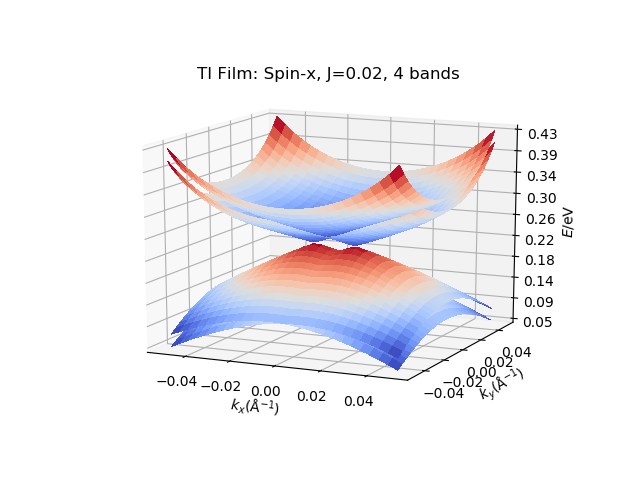
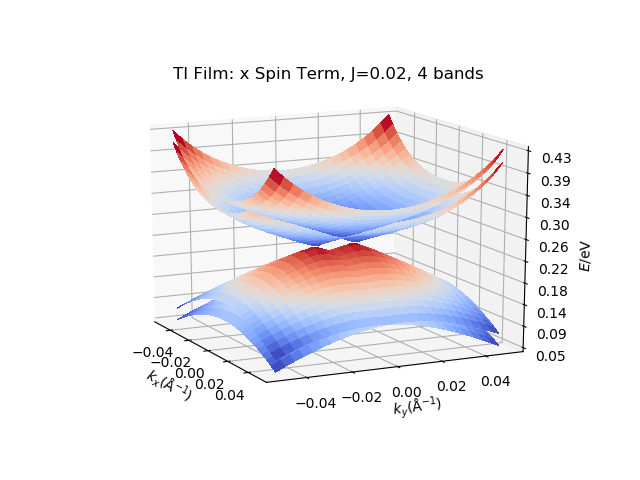
180727

Changed region(s): [[0.2188, 0.2188, 0.9375, 0.875], [0.2812, 0.125, 0.75, 0.1875]]

diff --git a/TI Hamiltonian/TopoInvCalc.py b/TI Hamiltonian/TopoInvCalc.py
@@ -11,12 +11,12 @@ pauli_y = np.array([[0, -1j], [1j, 0]], dtype=complex)
 pauli_z = np.array([[1, 0], [0, -1]], dtype=complex)
 pauli_vector = list([pauli_x, pauli_y, pauli_z])
 
-settings = {'num_lines': 31,
+settings = {'num_lines': 41,
             'pos_tol':  1e-2,
             'gap_tol': 0.2,
             'move_tol': 0.05,
-            'iterator': range(30, 201, 4),
-            'min_neighbour_dist': 6e-5,
+            'iterator': range(40, 201, 4),
+            'min_neighbour_dist': 5e-6,
             }
 
 
@@ -36,45 +36,83 @@ def Calc(ham, surf=lambda k1, k2: [k1-0.5, k2-0.5], CalcZ2=True):
 
     class Res(object):
         def __init__(self):
+            self.result = result
             self.Chern = z2pack.invariant.chern(result)
+            self.CalcZ2 = CalcZ2
             if CalcZ2 == True:
-                result_l = z2pack.surface.run(
+                self.result_l = z2pack.surface.run(
                     system=s0, surface=lambda k1, k2: surf(k1/2, k2), **settings)
-                result_r = z2pack.surface.run(
+                self.result_r = z2pack.surface.run(
                     system=s0, surface=lambda k1, k2: surf(k1/2+0.5, k2), **settings)
-                Z2_1, Z2_2, Z2_T = z2pack.invariant.z2(result_l), z2pack.invariant.z2(
-                    result_r), z2pack.invariant.z2(result)
+                Z2_1, Z2_2, Z2_T = z2pack.invariant.z2(self.result_l), z2pack.invariant.z2(
+                    self.result_r), z2pack.invariant.z2(self.result)
                 self.Z2 = True if (Z2_1*Z2_2*(1-Z2_T) == 1) else False
                 self._Z2 = [Z2_1, Z2_2, Z2_T]
 
-        def plotChern(self, title="", filename=""):
+        def plotChern(self, title="", filename="", start=0, end=1):
             fig, ax = plt.subplots()
-            z2pack.plot.wcc(result, axis=ax)
+            z2pack.plot.wcc(self.result, axis=ax)
             ax.set_xlabel(r"$k_x$")
             ax.set_ylabel(r"$\bar{x}$")
-            # ax.set_xlim(0.5, 1)
-            ax.set_title(title+"\nChern="+str(self.Chern))
+            ax.set_xlim(start, end)
+            ax.set_title("Chern="+str(self.Chern))
+            fig.suptitle(title)
             # # plt.savefig("Chern TI film z spin.png")
             # ax.set_title("TI film, d=6nm, j=0.02")
-            if filename!="":
-                path=os.path.join("Pictures",filename+".png")
+            if filename != "":
+                path = os.path.join("Pictures", filename+".png")
                 plt.savefig(path)
             else:
                 plt.show()
+
+        def plotZ2(self, title="", filename="", start=0, end=1, start_l=0, end_l=1, start_r=0, end_r=1):
+            if self.CalcZ2 != True:
+                raise Exception("Haven't Calculated Z2")
+            else:
+                fig, ax = plt.subplots(1, 3)
+                z2pack.plot.wcc(self.result_l, axis=ax[0])
+                z2pack.plot.wcc(self.result_r, axis=ax[1])
+                z2pack.plot.wcc(self.result, axis=ax[2])
+                for i in range(3):
+                    ax[i].set_xlabel(r"$k_x$")
+                    ax[i].set_ylabel(r"$\bar{x}$")
+                    ax[i].set_title("Z2="+str(self._Z2[i]))
+
+                ax[0].set_xlim(start_l, end_l)
+                ax[1].set_xlim(start_r, end_r)
+                ax[2].set_xlim(start, end)
+
+                fig.suptitle(title)
+                if filename != "":
+                    path = os.path.join("Pictures", filename+".png")
+                    plt.savefig(path)
+                else:
+                    plt.show()
+
     return(Res())
 
 
 if __name__ == "__main__":
     N, J = 20, 0.02
     S_ = np.zeros([N, 3])
-    for i in range(N):
+    # for i in range(N):
+    #     S_[i, 0] = 1
+    #     S_[i, 1] = np.pi/2
+    #     S_[i, 2] = 0
+    for i in range(20):
         S_[i, 0] = 1
-        S_[i, 1] = 0
-        S_[i, 2] = 0
+        S_[i, 1] = np.pi/2
+        S_[i, 2] = np.pi/2
+    # for i in range(10, N):
+    #     S_[i, 0] = 1
+    #     S_[i, 1] = np.pi/2
+    #     S_[i, 2] = np.pi*3/2
     S = np.array([([s[0]*np.sin(s[1])*np.cos(s[2]), s[0]*np.sin(s[1])
                     * np.sin(s[2]), s[0]*np.cos(s[1])])for s in S_])
+    print(S)
     h = Hamiltonian(N=N, J=J, S=S)
-
+    # e = Eig(h)
+    # plotBS(e, 2*N-2, 2*N+2, title="TI Film: x&-x, J=0.02, 4 bands")
     res = Calc(h, CalcZ2=False)
     print(res.Chern)
-    res.plotChern(title="Spin-z, J=0.02")
+    res.plotChern(title="Spin-y, J=0.02")

diff --git a/TI Hamiltonian/Ham_Spin.py b/TI Hamiltonian/Ham_Spin.py
@@ -27,8 +27,8 @@ J = 0.02  # an arbitary value for spin coupling energy
 S_ = np.zeros([N, 3])
 for i in range(N):
     S_[i, 0] = 1
-    S_[i, 1] = np.pi/2
-    S_[i, 2] = np.pi/2
+    S_[i, 1] = 0
+    S_[i, 2] = 0
 
 
 S = np.array([([s[0]*np.sin(s[1])*np.cos(s[2]), s[0]*np.sin(s[1])
@@ -175,74 +175,75 @@ settings = {'num_lines': 101,
 # # print(Hamiltonian(0.03, 0))
 # # Simulation parameter, unit = 1/anstrom
 # from -xRange to xRange, etc
-xRange, yRange, Nx, Ny = 0.05, 0.05, 20, 20
+xRange, yRange, Nx, Ny = 0.05, 0.05, 50, 50
 dkx, dky = 2*xRange/Nx, 2*yRange/Ny
 bs = np.zeros([Nx+1, Ny+1, 4*N], dtype=float)
 
 # # do simulation on ky=0 line
-# ky = 0
-# j0 = j = int(Ny/2)
-# for i in range(Nx+1):
-#     # kx, ky = -xRange+dkx*i, -yRange+dky*j
-#     kx = -xRange+dkx*i
-#     # print(kx, end=", ")
-#     temp = np.array([x.real for x in (linalg.eig(Hamiltonian(kx, ky))[0])])
-#     temp.sort()
-#     # print(temp)
-#     bs[i, j] = temp
-#     # print(temp)
+ky = 0
+j0 = j = int(Ny/2)
+for i in range(Nx+1):
+    # kx, ky = -xRange+dkx*i, -yRange+dky*j
+    kx = -xRange+dkx*i
+    # print(kx, end=", ")
+    temp = np.array([x.real for x in (linalg.eig(Hamiltonian(kx, ky))[0])])
+    temp.sort()
+    # print(temp)
+    bs[i, j] = temp
+    # print(temp)
 
 # do simulation on kx-ky plane
-for i in range(Nx+1):
-    for j in range(Ny+1):
-        kx, ky = -xRange+dkx*i, -yRange+dky*j
-        temp = np.array([x.real for x in (linalg.eig(Hamiltonian(kx, ky))[0])])
-        temp.sort()
-        bs[i, j] = temp
+# for i in range(Nx+1):
+#     for j in range(Ny+1):
+#         kx, ky = -xRange+dkx*i, -yRange+dky*j
+#         temp = np.array([x.real for x in (linalg.eig(Hamiltonian(kx, ky))[0])])
+#         temp.sort()
+#         bs[i, j] = temp
 
-Eig = np.array([([([bs[i, j, n] for j in range(Ny+1)]) for i in range(Nx+1)])
-                for n in range(4*N)])
+# Eig = np.array([([([bs[i, j, n] for j in range(Ny+1)]) for i in range(Nx+1)])
+#                 for n in range(4*N)])
 
 # print(Eig)
 # print(Eig[2*N-1])
 #####################################################
 #3D plot
-X = np.linspace(-xRange, xRange, Nx+1, endpoint=True)
-Y = np.linspace(-yRange, yRange, Ny+1, endpoint=True)
-X, Y = np.meshgrid(X, Y)
-# print("X=", X)
-# print("Y=", X)
-
-fig = plt.figure()
-ax = fig.gca(projection='3d')
-for Z in Eig[2*N-2:2*N+2]:
-    # print(Z)
-    surf = ax.plot_surface(X, Y, Z,  cmap=cm.coolwarm,
-                           linewidth=0, antialiased=False)
-    
-fig.colorbar(surf, shrink=0.5, aspect=5)
-ax.zaxis.set_major_locator(LinearLocator(10))
-ax.zaxis.set_major_formatter(FormatStrFormatter('%.02f'))
-plt.show()
-#####################################################
-# j0 = int(Ny/2)
 # X = np.linspace(-xRange, xRange, Nx+1, endpoint=True)
-# # Eig = [([bs[j, j0, i] for j in range(Nx+1)])for i in range(4*N)]
+# Y = np.linspace(-yRange, yRange, Ny+1, endpoint=True)
+# X, Y = np.meshgrid(X, Y)
+# # print("X=", X)
+# # print("Y=", X)
+
+# fig = plt.figure()
+# ax = fig.gca(projection='3d')
+# for Z in Eig[2*N-2:2*N+2]:
+#     # print(Z)
+#     surf = ax.plot_surface(X, Y, Z,  cmap=cm.coolwarm,
+#                            linewidth=0, antialiased=False)
+    
+# fig.colorbar(surf, shrink=0.5, aspect=5)
+# ax.zaxis.set_major_locator(LinearLocator(10))
+# ax.zaxis.set_major_formatter(FormatStrFormatter('%.02f'))
+# plt.show()
+#####################################################
+j0 = int(Ny/2)
+X = np.linspace(-xRange, xRange, Nx+1, endpoint=True)
+Eig = [([bs[j, j0, i] for j in range(Nx+1)])for i in range(4*N)]
 
 
-# plt.subplot(1, 1, 1)
-# for t in Eig[2*N-1:2*N]:
-#     print(t)
-#     y=np.array([t[i][j0] for i in range(Nx+1)])
-#     plt.plot(X, y)
-# plt.ylim(0.15, 0.35)
+plt.subplot(1, 1, 1)
+for t in Eig[2*N-2:2*N+2]:
+    print(t)
+    # y=np.array([t[i][j0] for i in range(Nx+1)])
+    # plt.plot(X, y)
+    plt.plot(X,t)
+plt.ylim(0.15, 0.35)
+plt.xlim(-0.05, 0.05)
+
+
+# plt.ylim(0.1, 0.5)
 # plt.xlim(-0.05, 0.05)
-
-
-# # plt.ylim(0.1, 0.5)
-# # plt.xlim(-0.05, 0.05)
-# plt.xlabel(r"$k_x(\rm \AA^{-1})$")
-# plt.ylabel(r"$E(eV)$")
-# # plt.title("Add spin term(y direction, j=0.02)")
-# # plt.show()
+plt.xlabel(r"$k_x(\rm \AA^{-1})$")
+plt.ylabel(r"$E(eV)$")
+plt.title("TI film: spin-z , j=0.02")
+plt.show()
 # plt.savefig("no-spin TI film D=6nm.png")

diff --git a/TI Hamiltonian/TI_Film.py b/TI Hamiltonian/TI_Film.py
@@ -52,6 +52,8 @@ X_ = np.linspace(-xRange, xRange, Nx+1, endpoint=True)
 Y_ = np.linspace(-yRange, yRange, Ny+1, endpoint=True)
 
 # Return a 4N*4N matrix
+
+
 def Hamiltonian(N=N_, J=J_, S=S_, U=U_):
     def _ham(kx, ky):
         def E_(kx, ky):
@@ -96,15 +98,11 @@ def Eig(h, xRange=xRange, yRange=yRange, Nx=Nx, Ny=Ny):
                      for n in range(4*N)]))
 
 
-
-
-
-def plotBS(E, start, end, X=X_, Y=Y_, filename="",title=""):
-    x, y = np.meshgrid(X, Y)
+def plotBS(E, start, end, X=X_, Y=Y_, filename="", title=""):
+    x, y = np.meshgrid(X, Y, indexing="ij")
     fig = plt.figure()
     ax = fig.gca(projection='3d')
     for Z in E[start:end]:
-        # print(Z)
         ax.plot_surface(x, y, Z, cmap=cm.coolwarm,
                         linewidth=0, antialiased=False)
 
@@ -114,6 +112,7 @@ def plotBS(E, start, end, X=X_, Y=Y_, filename="",title=""):
 
     ax.set_xlabel(r"$k_x(\rm \AA^{-1})$")
     ax.set_ylabel(r"$k_y(\rm \AA^{-1})$")
+    
     ax.set_zlabel(r"$E/\rm{eV}$")
     ax.set_title(title)
     if filename == "":
@@ -128,11 +127,12 @@ if __name__ == "__main__":
     S_ = np.zeros([N, 3])
     for i in range(N):
         S_[i, 0] = 1
-        S_[i, 1] = 0
-        S_[i, 2] = 0
+        S_[i, 1] = np.pi/2
+        S_[i, 2] = np.pi/2
     S = np.array([([s[0]*np.sin(s[1])*np.cos(s[2]), s[0]*np.sin(s[1])
                     * np.sin(s[2]), s[0]*np.cos(s[1])])for s in S_])
+    # print(S)
     h = Hamiltonian(N=N, J=J, S=S)
     e = Eig(h)
 
-    plotBS(e, 2*N-2, 2*N+2,title="TI Film: No Spin Term, J=0.02, 4 bands")
+    plotBS(e, 2*N-2, 2*N+2, title="TI Film: x Spin Term, J=0.02, 4 bands")
